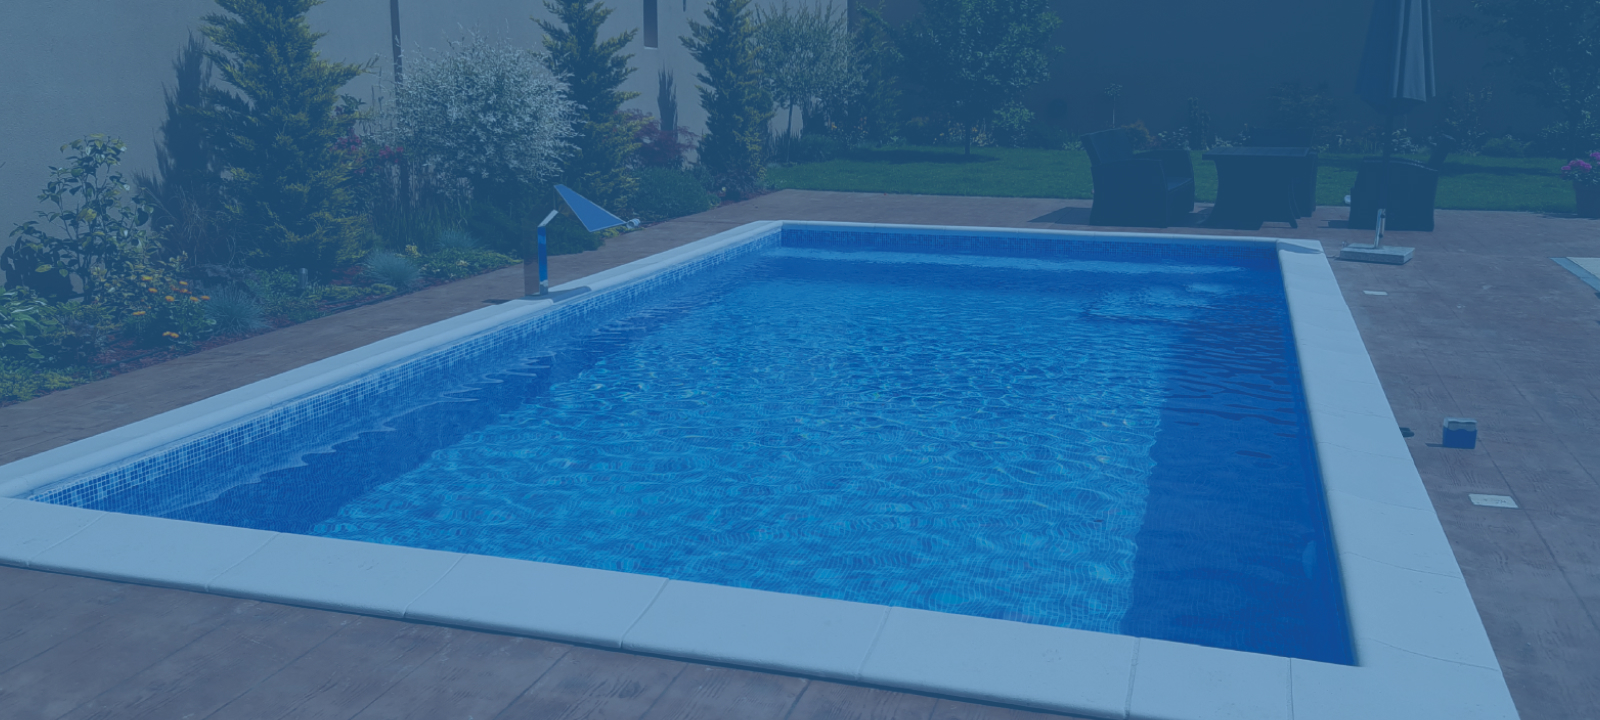
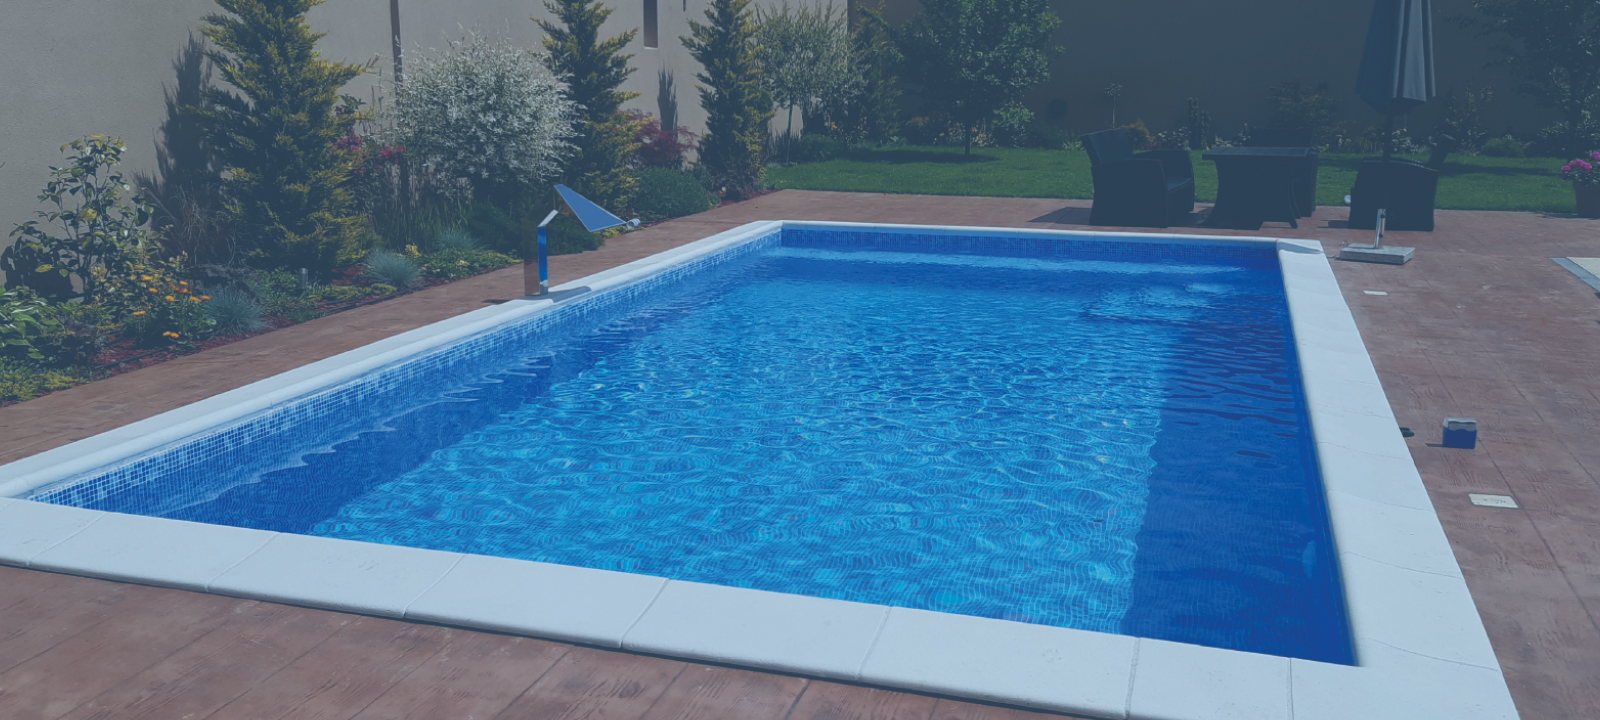
ispravke kod filipa

diff --git a/angular-src/src/app/pages/izgradnja-bazena/izgradnja-bazena.component.html b/angular-src/src/app/pages/izgradnja-bazena/izgradnja-bazena.component.html
@@ -1,3 +1,5 @@
+<app-navbar></app-navbar>
+
 <div class="container pt-128">
   <div class="row">
     <div class="col-12 text-center">
@@ -5,7 +7,7 @@
       <div class="row justify-content-center">
         <div class="col-12 col-lg-7">
           <p>Pool Service u ponudi nudi održavanje bazena na nedeljnom nivou. Na vama je samo da se
-             prepustite i uživate.
+            prepustite i uživate.
           </p>
         </div>
       </div>
@@ -27,7 +29,7 @@
     </div>
     <div class="col-md-6">
       <p class="pt-md-5">Pool Service je firma na koju se možete osloniti kada je u pitanju održavanje bazena u Novom
-                         Sadu i okolini.</p>
+        Sadu i okolini.</p>
       <p>Naše stručno osoblje uvek teži da ispuni i nadmaši očekivanja naših klijenata.</p>
 
       <div class="row list-item">
@@ -43,7 +45,7 @@
           <div class="d-inline-flex">
             <i class="fas fa-check"></i>
             <p>Uštedećete novac ukoliko ranije uočimo probleme i sprečimo potrebu za velikim
-               popravkama</p>
+              popravkama</p>
           </div>
         </div>
         <div class="col-6 mt-4">
@@ -74,8 +76,8 @@
             <div class="test">
               <h3 class="mb-4">Pouzdan partner</h3>
               <p>Sa proverom opreme, testiranjem vode i uslugom
-                 čišćenja bazena od strane Pool Service, možete biti
-                 sigurni da je vaš bazen uvek spreman za zabavu.</p>
+                čišćenja bazena od strane Pool Service, možete biti
+                sigurni da je vaš bazen uvek spreman za zabavu.</p>
               <button class="btn btn-secondary border-0 mt-3" [routerLink]="['/kontakt']">Kontaktirajte nas</button>
             </div>
           </div>
@@ -94,8 +96,8 @@
           <div class="col-12 col-md-6 order-2 order-md-1">
             <h3 class="mb-4">Uživajte u letu</h3>
             <p>U onim vrućim letnjim danima ne želite da brinete da li
-               Vam filter radi ili ne. I sigurno ne želite da razmišljate o
-               pH vrednosti vode, dok Vas klinci zovu da se igrate.
+              Vam filter radi ili ne. I sigurno ne želite da razmišljate o
+              pH vrednosti vode, dok Vas klinci zovu da se igrate.
             </p>
             <p>Neka Pool Service uradi sav posao za vas.</p>
             <button class="btn btn-secondary border-0 mt-3" [routerLink]="['/kontakt'] ">Kontaktirajte nas</button>
@@ -118,8 +120,8 @@
       <div class="col-12 col-md-6">
         <h3 class="text-white">Kako Pool Service može <br> da vam pomogne?</h3>
         <p class="text-white">U slučaju da se odlučite da sami održavate svoj bazen, ne brinite,
-                              Pool Service je mislio i na Vas. Napravili smo Vam sažeto uputstvo o održavanju vode u
-                              bazenu.</p>
+          Pool Service je mislio i na Vas. Napravili smo Vam sažeto uputstvo o održavanju vode u
+          bazenu.</p>
       </div>
       <div id="lines" class="col-md-4">
         <button class="btn btn-secondary border-0" (click)="downloadPdf()">Preuzmi uputstvo</button>

diff --git a/angular-src/src/app/pages/dodatna-oprema/dodatna-oprema.component.html b/angular-src/src/app/pages/dodatna-oprema/dodatna-oprema.component.html
@@ -1,3 +1,5 @@
+<app-navbar></app-navbar>
+
 <!-- SECTION NASLOV -->
 <div class="container mt-128 mb-64">
   <div class="row">
@@ -12,7 +14,7 @@
 <div class="container oprema mb-128">
   <div class="row">
     <div class="col-12 col-md-6 pb-5">
-      <div class="card p-2 p-md-5 border-0 background-color">
+      <div class="card p-2 p-md-5 border-0 bg-light">
         <div class="row no-gutters my-auto align-items-center">
 
           <div class="col-12 col-md-6">
@@ -31,7 +33,7 @@
     </div>
 
     <div class="col-12 col-md-6 pb-5">
-      <div class="card p-2 p-md-5 border-0 background-color">
+      <div class="card p-2 p-md-5 border-0 bg-light">
         <div class="row no-gutters my-auto align-items-center">
           <div class="col-12 col-md-6">
             <div class="card-body">
@@ -49,7 +51,7 @@
     </div>
 
     <div class="col-12 col-md-6 pb-5">
-      <div class="card p-2 p-md-5 border-0 background-color">
+      <div class="card p-2 p-md-5 border-0 bg-light">
         <div class="row no-gutters my-auto align-items-center">
 
           <div class="col-12 col-md-6">
@@ -69,7 +71,7 @@
     </div>
 
     <div class="col-12 col-md-6 pb-5">
-      <div class="card p-2 p-md-5 border-0 background-color">
+      <div class="card p-2 p-md-5 border-0 bg-light">
         <div class="row no-gutters my-auto align-items-center">
 
           <div class="col-12 col-md-6">
@@ -88,7 +90,7 @@
     </div>
 
     <div class="col-12 col-md-6 pb-5">
-      <div class="card p-2 p-md-5 border-0 background-color">
+      <div class="card p-2 p-md-5 border-0 bg-light">
         <div class="row no-gutters my-auto align-items-center">
 
           <div class="col-12 col-md-6">
@@ -108,7 +110,7 @@
     </div>
 
     <div class="col-12 col-md-6 pb-5">
-      <div class="card p-2 p-md-5 border-0 background-color">
+      <div class="card p-2 p-md-5 border-0 bg-light">
         <div class="row no-gutters my-auto align-items-center">
 
           <div class="col-12 col-md-6">
@@ -126,7 +128,7 @@
     </div>
 
     <div class="col-12 col-md-6 pb-5">
-      <div class="card p-2 p-md-5 border-0 background-color">
+      <div class="card p-2 p-md-5 border-0 bg-light">
         <div class="row no-gutters my-auto align-items-center">
 
           <div class="col-12 col-md-6">
@@ -144,7 +146,7 @@
     </div>
 
     <div class="col-12 col-md-6 pb-5">
-      <div class="card p-2 p-md-5 border-0 background-color">
+      <div class="card p-2 p-md-5 border-0 bg-light">
         <div class="row no-gutters my-auto align-items-center">
 
           <div class="col-12 col-md-6">

diff --git a/angular-src/src/app/pages/filtriranje-vode/filtriranje-vode.component.html b/angular-src/src/app/pages/filtriranje-vode/filtriranje-vode.component.html
@@ -1,3 +1,5 @@
+<app-navbar></app-navbar>
+
 <div class="container my-128">
   <div class="row">
     <div class="col-12 col-md-6">
@@ -6,12 +8,12 @@
     </div>
     <div class="col-12 col-md-6 pt-5">
       <p>Peščani Filteri i Pumpe služe za filtriranje bazenske vode. Oni omogućavaju da voda bude čista i bistra.
-         Isporučuje se u kompletu koji čini: grubi filter sa pumpom, peščani filter, šestostepeni upravljački ventil,
-         postolje i kvarcni pesak.
-         Postoje kapaciteti od 5m3/h, 8m3/h, 12m3/h, 14m3/h i veći. </p><br>
+        Isporučuje se u kompletu koji čini: grubi filter sa pumpom, peščani filter, šestostepeni upravljački ventil,
+        postolje i kvarcni pesak.
+        Postoje kapaciteti od 5m3/h, 8m3/h, 12m3/h, 14m3/h i veći. </p><br>
       <p>U ponudi imamo nekoliko poznatih prozivodjaca kao sto su SPek Pumpen, Astrapool, IML. Firma SPeck Pumpen
-         iz Nemacke je renomirana i poznata po svojim visokokvalitetnim prozivodima a u svom asortimanu nudi velik izbor
-         bazenskih pumpi</p>
+        iz Nemacke je renomirana i poznata po svojim visokokvalitetnim prozivodima a u svom asortimanu nudi velik izbor
+        bazenskih pumpi</p>
     </div>
   </div>
 </div>
@@ -105,7 +107,7 @@
                 <div class="col-7 col-md-12">
                   <p class=" h5 pt-2 ">Victoria-Astral</p>
                   <p class="">Victoria Plus 0.61kW 11m3/h <br> Victoria Plus 0.78kW 16 m3/h <br> Victoria Plus
-                              1.10kW 21,5 m3/h </p>
+                    1.10kW 21,5 m3/h </p>
                 </div>
               </div>
             </div>

diff --git a/angular-src/src/app/pages/cirkulacija-vode/cirkulacija-vode.component.html b/angular-src/src/app/pages/cirkulacija-vode/cirkulacija-vode.component.html
@@ -1,3 +1,5 @@
+<app-navbar></app-navbar>
+
 <div class="container my-128">
 
   <div class="row">
@@ -7,8 +9,8 @@
     </div>
     <div class="col-12 col-md-6 pt-5">
       <p>Skimeri ili prelivi uzimaju vodu iz bazena sa gornje površine koja je inače i najprljavija koja zatim
-         odlazi na filtraciju. Kod betonskih bazena se ugradjuju u oplatu pre betoniranja a kod lajnerskih se
-         ugradjuju. Isporučuju se sa vakum pločom koja sluzi da bi se priključilo crevo za podvodno usisavanje.</p>
+        odlazi na filtraciju. Kod betonskih bazena se ugradjuju u oplatu pre betoniranja a kod lajnerskih se
+        ugradjuju. Isporučuju se sa vakum pločom koja sluzi da bi se priključilo crevo za podvodno usisavanje.</p>
     </div>
   </div>
 </div>
@@ -41,7 +43,7 @@
             <div class="col-7 col-md-12">
               <p class="naslov pt-2 ">SKIMER Lajner Bazen</p>
               <p> Skimer 15L kvadr.poklopac LB <br> Skimer 15L ŠIROK kvadr.poklopac LB<br> Skimer 17.5 L široki
-                  ulazni otvor LB <br> Skimer 17.5 L duži vrat LB</p>
+                ulazni otvor LB <br> Skimer 17.5 L duži vrat LB</p>
             </div>
           </div>
 

diff --git a/angular-src/src/app/components/footer/footer.component.html b/angular-src/src/app/components/footer/footer.component.html
@@ -12,7 +12,7 @@
             Poslovna politika naše kompanije je potpuna podrška našim klijentima u svim njihovim zahtevima počevši od:
             izgradnje bazena, održavanja, servisa, popravki, savetovanja i ostalog.
           </p>
-          <a class="btn btn-primary">Besplatna konsultacija</a>
+          <a class="btn btn-primary" [routerLink]="['/']">Besplatna konsultacija</a>
         </div>
 
 
@@ -31,7 +31,7 @@
             <li class="mb-2"><a class="text-white" [routerLink]="['/o-nama']">O nama</a></li>
             <li class="mb-2"><a class="text-white" [routerLink]="['/odrzavanje']">Odrzavanje</a></li>
             <li class="mb-2"><a class="text-white" [routerLink]="['/dodatna-oprema']">Dodatna oprema</a></li>
-            <li class="mb-2"><a class="text-white" [routerLink]="['/faq']">Učestala pitanja</a></li>
+            <li class="mb-2"><a class="text-white" [routerLink]="['/ucestala-pitanja']">Učestala pitanja</a></li>
             <li class="mb-2"><a class="text-white" [routerLink]="['/kontakt']">Kontakt</a></li>
           </ul>
         </div>

diff --git a/angular-src/src/app/pages/contact/contact.component.html b/angular-src/src/app/pages/contact/contact.component.html
@@ -1,3 +1,5 @@
+<app-navbar></app-navbar>
+
 <!-- TIME AND LOCATION AND WIZARD-->
 <div class="container padding-top_contact">
   <div class="row">
@@ -54,7 +56,7 @@
           <div class="row">
             <div class="col col-md-5">
               <p>Novi Sad<br>
-                 Žitni Trg 13</p>
+                Žitni Trg 13</p>
             </div>
             <div class="col col-md-7">
               <p class="mb-0"><a href="mailto:infopoolservice@gmail.com">infopoolservice@gmail.com</a></p>
@@ -70,7 +72,7 @@
             </div>
             <div class="col-12">
               <p>Novi Sad<br>
-                 Žitni Trg 13</p>
+                Žitni Trg 13</p>
             </div>
 
             <div class="col-12">
@@ -100,7 +102,7 @@
     width="100%" height="450" frameborder="0" style="border:0;" allowfullscreen="" aria-hidden="false"
     tabindex="0"></iframe>
 </div>
-<div id="contact-images" class="container">
+<div id="contact-images" class="container d-none d-md-block">
   <div class="row">
     <div class="col-7">
       <div class="mr-3">

diff --git a/angular-src/src/app/pages/homepage/homepage.component.scss b/angular-src/src/app/pages/homepage/homepage.component.scss
@@ -175,7 +175,7 @@
       height: 100%;
       bottom: 0;
       left: 0;
-      background: linear-gradient(#0062cc00, #0062cc);
+      background: linear-gradient(#0062cc00, #003770);
       opacity: 1;
       transition: all 1s;
       -webkit-transition: all 1s;
@@ -183,7 +183,7 @@
 
       @include media-breakpoint-down(md) {
         height: 100%;
-        background: linear-gradient(rgba(0, 0, 0, 0.2), rgba(0, 0, 0, 0.8));
+        background: linear-gradient(#0062cc00, #003770);
       }
     }
   }
@@ -261,7 +261,7 @@
       height: 100%;
       bottom: 0;
       left: 0;
-      background: linear-gradient(#0062cc00, #0062cc);
+      background: linear-gradient(#0062cc00, #003770);
       opacity: 1;
       transition: all 1s;
       -webkit-transition: all 1s;
@@ -269,7 +269,7 @@
 
       @include media-breakpoint-down(sm) {
         height: 100%;
-        background: linear-gradient(rgba(0, 0, 0, 0.2), rgba(0, 0, 0, 0.8));
+        background: linear-gradient(#0062cc00, #003770);
       }
     }
   }

diff --git a/angular-src/src/app/app-routing.module.ts b/angular-src/src/app/app-routing.module.ts
@@ -72,15 +72,29 @@ const routes: Routes = [
     path: 'odrzavanje',
     component: MainLayoutComponent,
     children: [
-      { path: '', component: IzgradnjaBazenaComponent }
+      {path: '', component: IzgradnjaBazenaComponent}
+    ]
+  },
+  {
+    path: 'o-nama',
+    component: MainLayoutComponent,
+    children: [
+      {path: '', component: AboutComponent}
+    ]
+  },
+  {
+    path: 'ucestala-pitanja',
+    component: MainLayoutComponent,
+    children: [
+      {path: '', component: FaqComponent}
     ]
   },
   {
     path: 'blog',
     component: MainLayoutComponent,
     children: [
-      { path: '', component: BlogComponent },
-      { path: 'post-1', component: PageBlogComponent },
+      {path: '', component: BlogComponent},
+      {path: 'post-1', component: PageBlogComponent},
     ]
   },
   {

diff --git a/angular-src/src/app/pages/contact/contact.component.scss b/angular-src/src/app/pages/contact/contact.component.scss
@@ -1,3 +1,6 @@
+@import "node_modules/bootstrap/scss/functions";
+@import "node_modules/bootstrap/scss/variables";
+@import "node_modules/bootstrap/scss/mixins";
 @import "../../../assets/scss/colors";
 
 
@@ -69,12 +72,16 @@
 
 .padding-top_maps {
   iframe {
-  height: 430px;
+    height: 430px;
     width: 100%;
-    -webkit-box-shadow: 40px 40px 0px 0px rgba(23,21,75,1);
-    -moz-box-shadow: 40px 40px 0px 0px rgba(23,21,75,1);
-    box-shadow: 40px 40px 0px 0px rgba(23,21,75,1);
+    -webkit-box-shadow: 40px 40px 0px 0px rgba(23, 21, 75, 1);
+    -moz-box-shadow: 40px 40px 0px 0px rgba(23, 21, 75, 1);
+    box-shadow: 40px 40px 0px 0px rgba(23, 21, 75, 1);
     margin-bottom: 161px;
+
+    @include media-breakpoint-down(md) {
+      box-shadow: none !important;
+    }
   }
 
 

diff --git a/angular-src/src/app/pages/osvetljenje/osvetljenje.component.html b/angular-src/src/app/pages/osvetljenje/osvetljenje.component.html
@@ -1,3 +1,5 @@
+<app-navbar></app-navbar>
+
 <div class="container my-128">
   <div class="row">
     <div class="col-12 col-md-6">
@@ -6,7 +8,7 @@
     </div>
     <div class="col-12 col-md-6 pt-5">
       <p>Reflektori služe za podvodno osvetljavanje bazena. Snage su od 300 W a napona 12V. <br> Postoje
-         reflektori za betonske bazene i za bazene sa lajnerom. <br> Za svaki je potrebno predvideti trafo.</p>
+        reflektori za betonske bazene i za bazene sa lajnerom. <br> Za svaki je potrebno predvideti trafo.</p>
     </div>
   </div>
 </div>

diff --git a/angular-src/src/app/components/navbar/navbar.component.html b/angular-src/src/app/components/navbar/navbar.component.html
@@ -23,11 +23,11 @@
         </li>
 
         <li class="nav-item mr-2">
-          <a class="nav-link text-center" [routerLink]="['/odrzavanje'] ">ODRŽAVANJE</a>
+          <a class="nav-link text-center" [routerLink]="['/odrzavanje']">ODRŽAVANJE</a>
         </li>
 
         <li class="nav-item">
-          <a class="nav-link text-center" (click)="refreshPage()">DODATNA OPREMA</a>
+          <a class="nav-link text-center" [routerLink]="['/dodatna-oprema']">DODATNA OPREMA</a>
         </li>
       </ul>
       <ul class="navbar-nav ml-auto">

diff --git a/angular-src/src/app/pages/homepage/homepage.component.html b/angular-src/src/app/pages/homepage/homepage.component.html
@@ -276,7 +276,7 @@
                                                       snove. Hvala im na tome, jer sam teško vreme za vreme korone
                                                       imao gde da provedem :) Šta reći, osim... preporuka!”
             </blockquote>
-            <p class="mb-0"><span class="weight-500">Milan,</span> IT Menadžer</p>
+            <p class="mb-0"><span class="weight-500">Goran,</span> Privatnik</p>
           </div>
         </div>
       </div>
